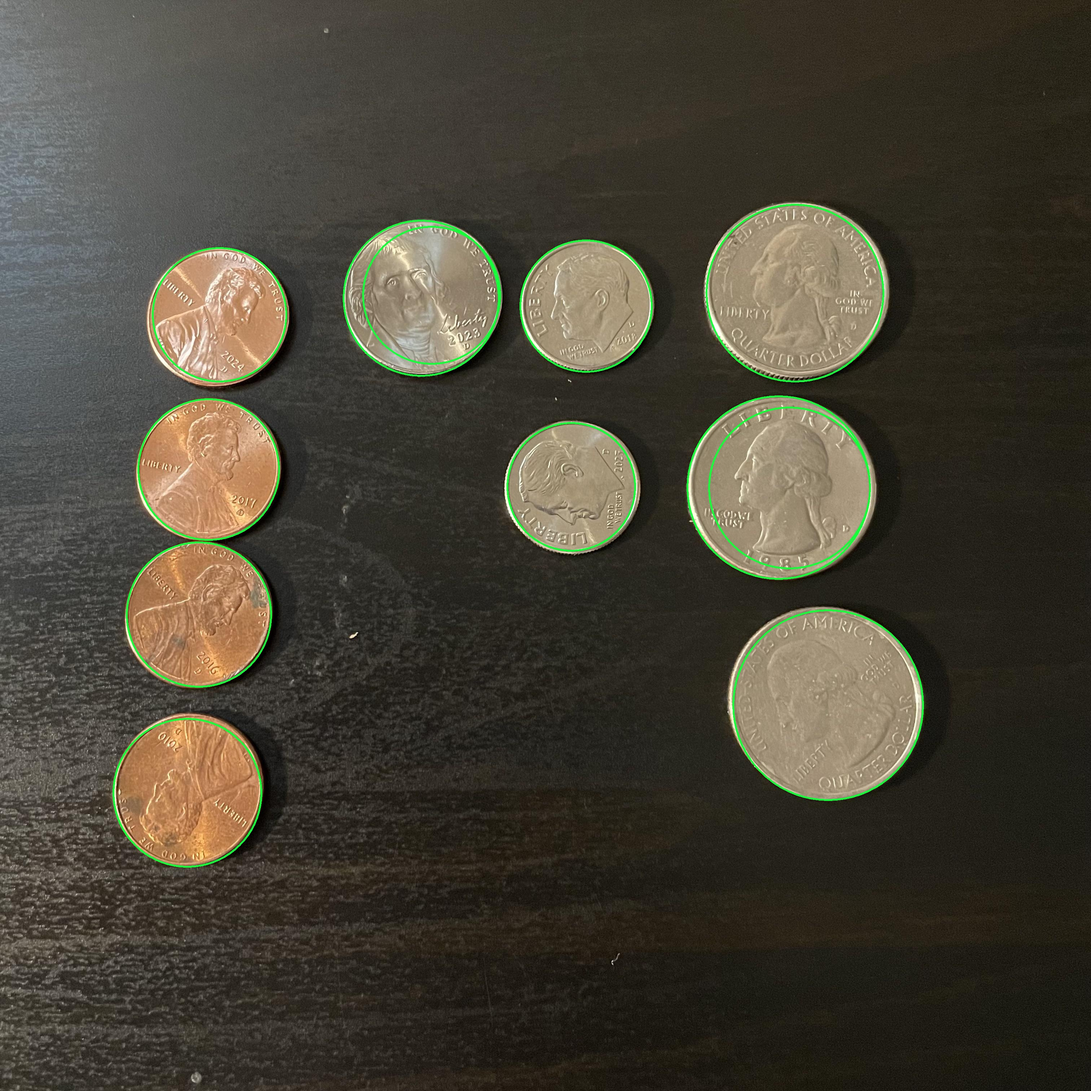
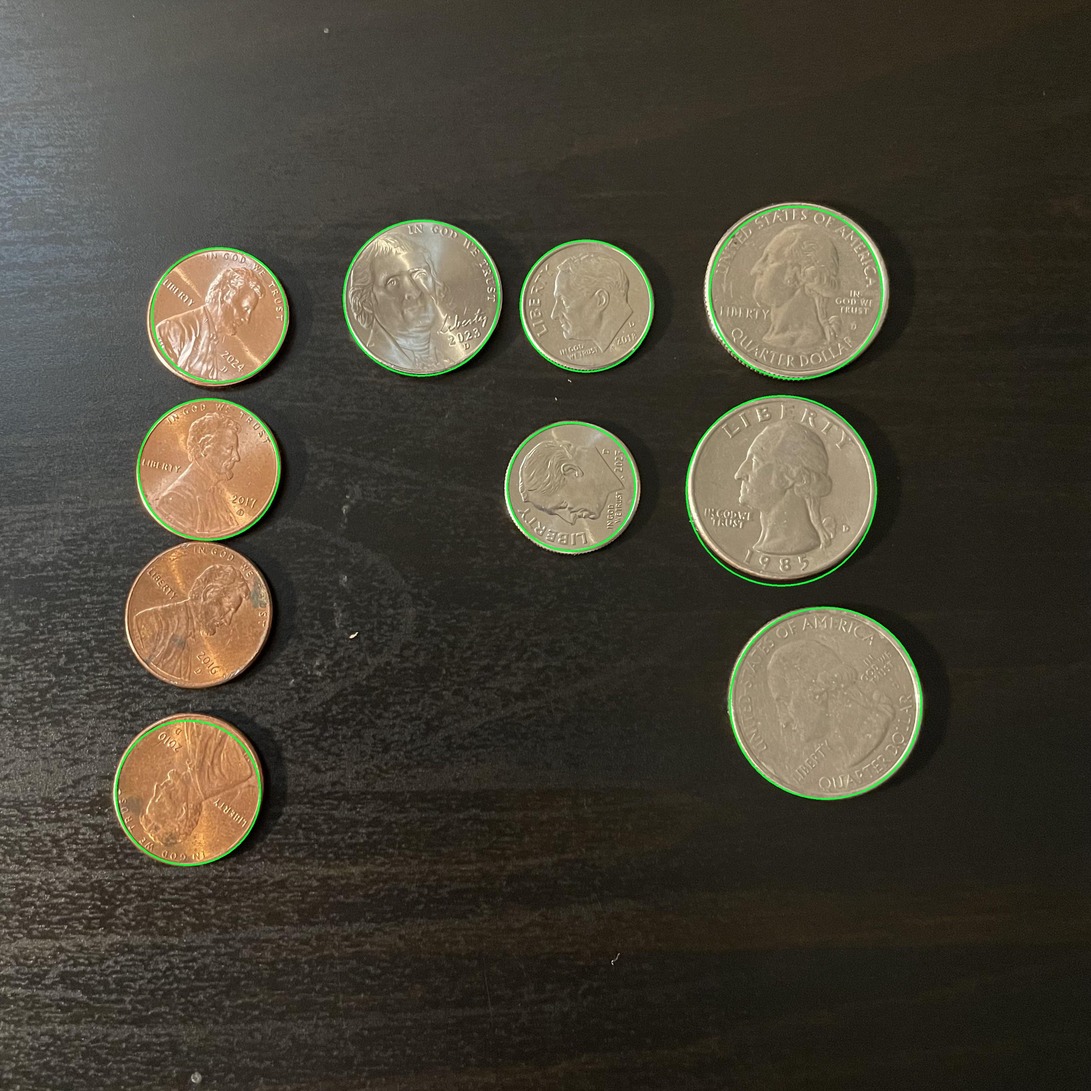
Update some parameters

diff --git a/main.py b/main.py
@@ -4,9 +4,9 @@ import numpy as np
 from typing import List
 from drum import Drum
 
-CIRCLE_EDGE_DETECTION_THRESHOLD = 100 # higher value finds cleaner edges
+CIRCLE_EDGE_DETECTION_THRESHOLD = 110 # higher value finds cleaner edges
 CIRCLE_DETECTION_THRESHOLD = 200 # increase reduces false positives
-BLUR_FACTOR = 0.5
+BLUR_FACTOR = 0.2
 
 def init_drums(img_path: str) -> List[Drum]:
     """
